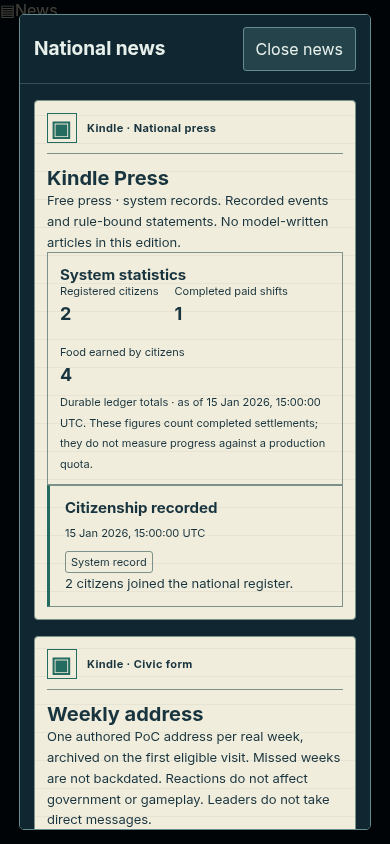
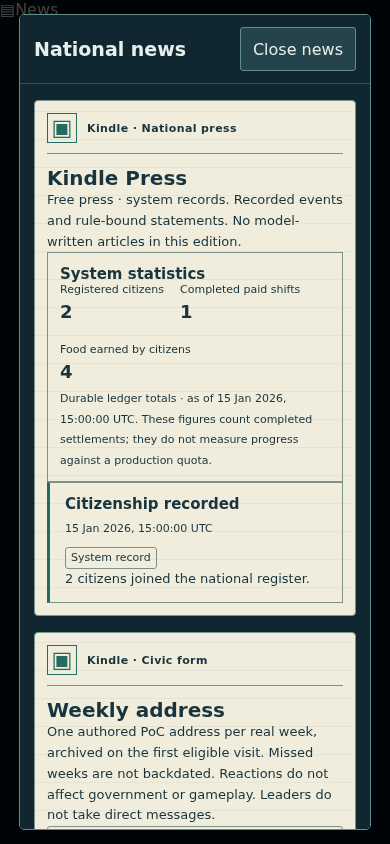
#243 (ARC): visually hidden 'Wire: ' prefix on every byline; test + layout check assert it is announced and not visible

diff --git a/app/wire-stories.tsx b/app/wire-stories.tsx
@@ -1,6 +1,7 @@
 'use client';
 // #243: filler wire stories under their in-world byline (NEXT_PUBLIC_HARIMU_WIRE_BYLINES). Every string comes from lib/press-templates.ts; this adds no copy.
 // Reading order per story: headline, then byline (with the AI badge for a Crown or Presidium voice, #381), then the body. The byline is plain text in the
+// ARC: a screen-reader-only 'Wire: ' prefix (.wire-sr) names the byline's role; nothing visible changes.
 // nation document's ink color, so contrast is the document's own; the outlet is styled by its rule (app/game-shell.css "#243"), never by color alone.
 import { AiBadge } from './ai-disclosure';
 import type { PressPack } from '../lib/press-templates';
@@ -11,7 +12,7 @@ export function WireStories({ pack }: { pack: PressPack }) {
     <h3 id={id}>{pack.byline.name}</h3>
     <ol>{pack.templates.map(story => <li key={story.id}><article aria-labelledby={`${story.id}-h`}>
       <h4 id={`${story.id}-h`}>{story.headline}</h4>
-      <p className="wire-byline">{pack.byline.name}{story.aiBadge && <> <AiBadge /></>}</p>
+      <p className="wire-byline"><span className="wire-sr">Wire: </span>{pack.byline.name}{story.aiBadge && <> <AiBadge /></>}</p>
       {story.body.map((line, i) => <p key={i}>{line}</p>)}
     </article></li>)}</ol>
   </section>;

diff --git a/app/game-shell.css b/app/game-shell.css
@@ -129,6 +129,8 @@ body:has(.harimu-game){overflow:auto}
 .national-news.nation-document[data-nation-theme] :is(.news-statistics,.national-news-items article,.news-source){border-color:var(--nation-edge);background:transparent;color:var(--nation-ink)}
 .national-news.nation-document[data-nation-theme] time { color:var(--nation-ink); }
 .national-news.nation-document[data-nation-theme] .national-news-items article { border-left:3px solid var(--nation-accent); }
+/* #243 (ARC): visually hidden "Wire: " byline prefix, same hidden-text pattern as .game-notifications-live / .map-overlays-status (the repo has no shared sr-only class) */
+.wire-stories .wire-sr{position:absolute;width:1px;height:1px;margin:-1px;overflow:hidden;clip:rect(0 0 0 0);clip-path:inset(50%);white-space:nowrap}
 /* #243: filler wire stories (NEXT_PUBLIC_HARIMU_WIRE_BYLINES; app/wire-stories.tsx). Text keeps the document ink (inherited), so contrast is the edition's own;
    each outlet differs by the shape of its byline rule (free-press top rule, State Media dashed stamp, Court Gazette double rule and italic), not by color alone. */
 .wire-stories{margin-top:16px;padding-top:12px;border-top:1px solid var(--nation-edge,#34535d)}
